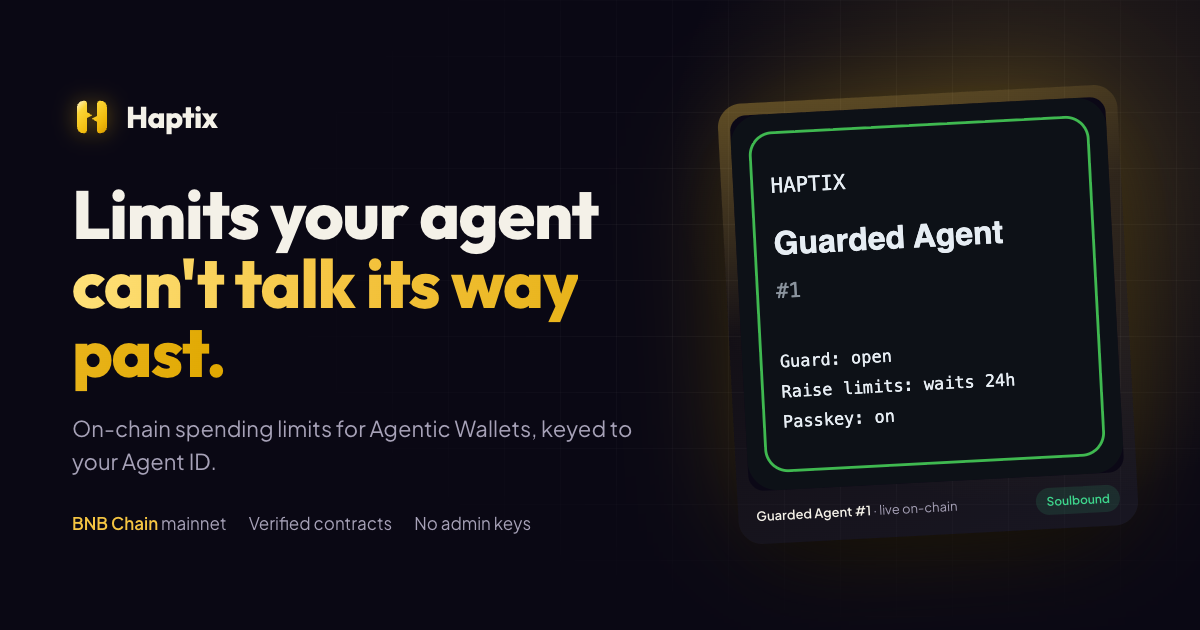
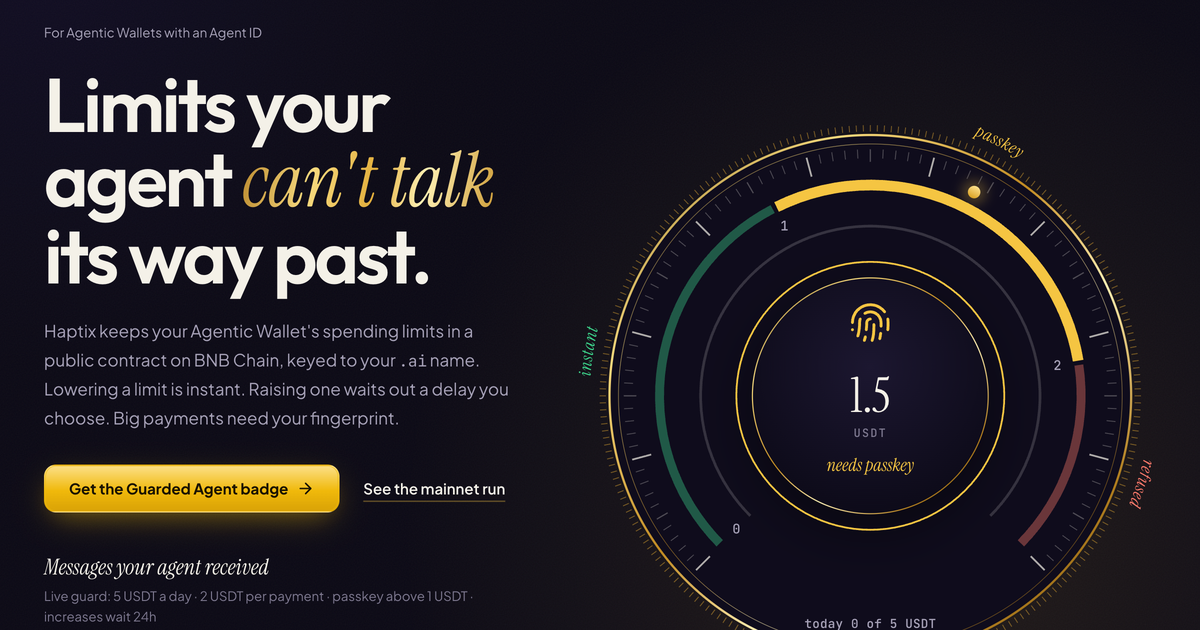
/enclave: mark as an earlier build, not affiliated with Binance; #try= links run a dial message; new link-preview image

diff --git a/web/enclave.html b/web/enclave.html
@@ -2381,6 +2381,7 @@
   </style>
 </head>
 <body>
+  <div style="position:relative;z-index:1000;background:#15121F;color:#E9E4D6;font:500 13px/1.4 'Plus Jakarta Sans',sans-serif;text-align:center;padding:10px 16px;border-bottom:1px solid rgba(240,185,11,.35);">This is an earlier Haptix build (Enclave). Not affiliated with Binance. <a href="/" style="color:#F5C542;text-decoration:underline;text-underline-offset:3px;">See the current Haptix for Agent ID</a></div>
   <!-- React Bits - DarkVeil Background (@react-bits/DarkVeil-JS-CSS) -->
   <div id="darkveil-container" class="darkveil-container"></div>
   
@@ -2588,7 +2589,7 @@
     
     <div class="container hero-content">
       <a href="/grant-session.html" class="pill-badge" style="text-decoration: none; display: inline-flex; align-items: center; gap: 8px; border-color: rgba(240, 185, 11, 0.4); background: rgba(240, 185, 11, 0.08); box-shadow: 0 0 28px rgba(240, 185, 11, 0.18); transition: transform 0.2s ease, border-color 0.2s ease;">
-        <span class="badge-tag" style="background: #F0B90B; color: #000; font-weight: 800; padding: 2px 8px; border-radius: 9999px;">BINANCE TRACK A</span>
+        <span class="badge-tag" style="background: #F0B90B; color: #000; font-weight: 800; padding: 2px 8px; border-radius: 9999px;">EARLIER BUILD</span>
         <span style="color: #FCD535; font-weight: 600;">Autonomous AI Enclave · Launch Console</span>
         <svg width="14" height="14" viewBox="0 0 24 24" fill="none" stroke="#FCD535" stroke-width="2.5" stroke-linecap="round" stroke-linejoin="round"><path d="M5 12h14M12 5l7 7-7 7"/></svg>
       </a>
@@ -3296,11 +3297,11 @@
             <strong>Haptix Protocol</strong>
           </div>
           <p style="font-size:13px;color:var(--text-muted);max-width:300px;line-height:1.6;">
-            Haptix Enclave × Binance Agent OS. Hardware Enclave biometric security &amp; on-chain SpendPolicy firewalls for autonomous AI agents.
+            Haptix Enclave, built for Binance Agent OS. Hardware Enclave biometric security &amp; on-chain SpendPolicy firewalls for autonomous AI agents.
           </p>
           <div style="display:inline-flex;align-items:center;gap:6px;background:rgba(240,185,11,0.1);border:1px solid rgba(240,185,11,0.3);padding:4px 10px;border-radius:999px;font-size:11.5px;color:#FCD535;width:fit-content;">
             <span style="width:6px;height:6px;border-radius:50%;background:#F0B90B;box-shadow:0 0 6px #F0B90B;"></span>
-            <span>Binance Track A Official Entry</span>
+            <span>Hackathon entry · not affiliated with Binance</span>
           </div>
         </div>
 

diff --git a/web/agent-id.html b/web/agent-id.html
@@ -739,6 +739,12 @@
             });
             li.appendChild(b); list.appendChild(li);
           });
+          // A link like /#try=injection runs that message once the guard has loaded.
+          var hm = /^#try=([a-z-]+)$/.exec(location.hash);
+          if (hm) {
+            var idx = scen.map(function (x) { return x.kind.replace(/\s+/g, '-'); }).indexOf(hm[1]);
+            if (idx >= 0) setTimeout(function () { list.querySelectorAll('.msg')[idx].click(); }, reduced ? 0 : 500);
+          }
           function syncSeg() { document.querySelectorAll('.seg2 button').forEach(function (x) { x.setAttribute('aria-checked', String(x.getAttribute('data-to') === to)); }); }
           document.querySelectorAll('.seg2 button').forEach(function (b) {
             b.addEventListener('click', function () { to = b.getAttribute('data-to'); syncSeg(); });
